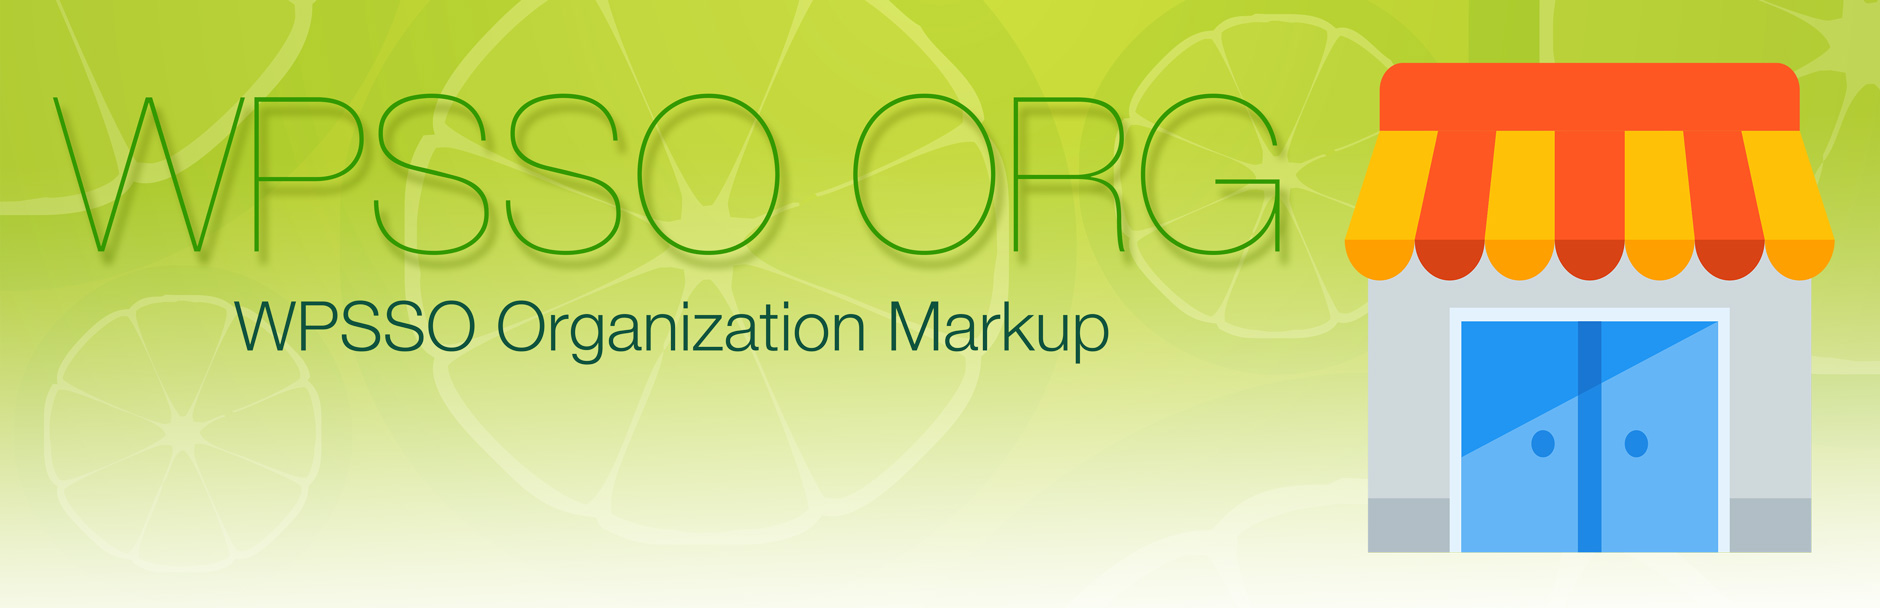
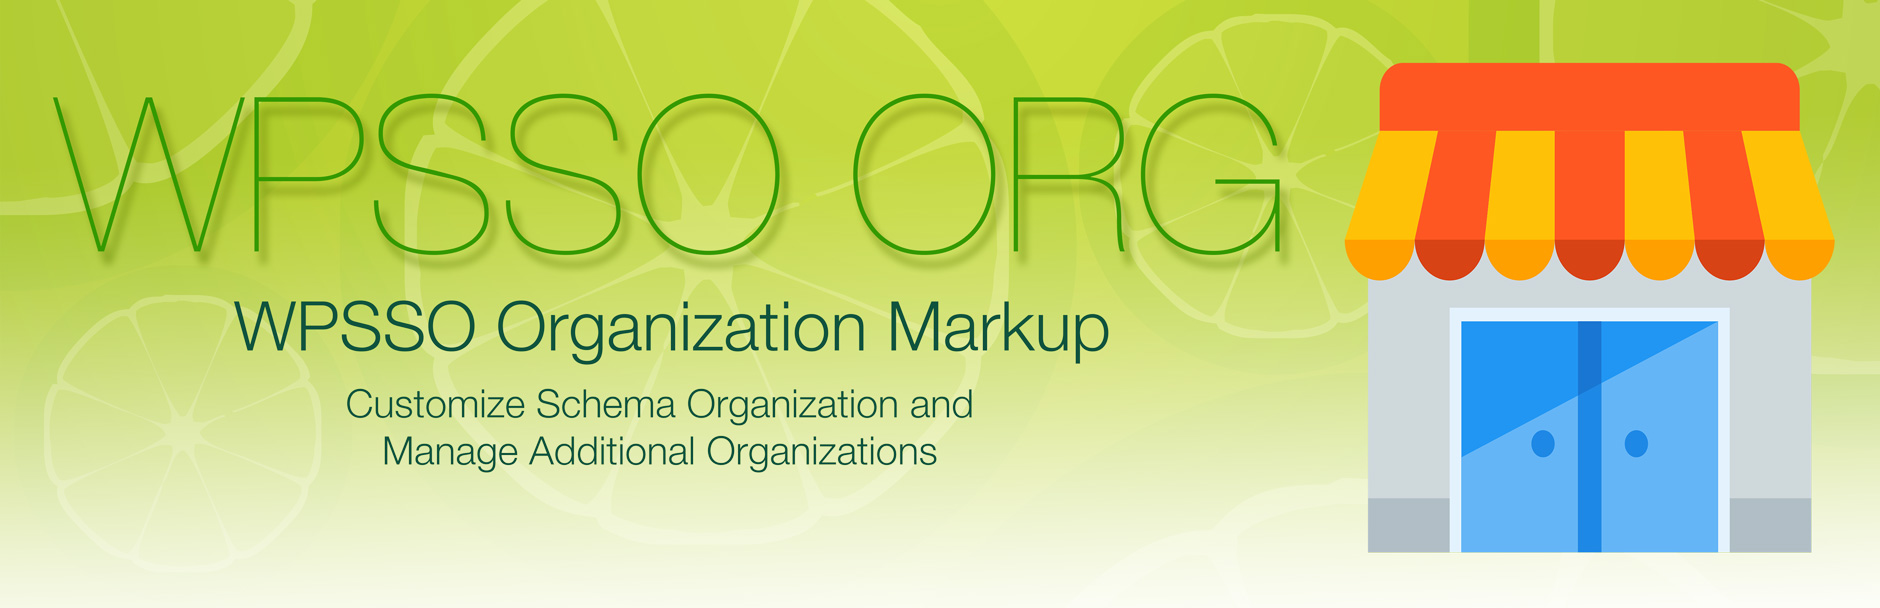
non-essential support files (documentation and assets)

Changed region(s): [[0.1851, 0.7188, 0.4936, 0.7812], [0.1851, 0.625, 0.5245, 0.6875]]

diff --git a/index.html b/index.html
@@ -25,11 +25,11 @@
         </ul>
       </header>
       <section>
-<h1>WPSSO Organization Markup to Customize Schema WebSite and Manage Additional Organizations</h1>
+<h1>WPSSO Organization Markup to Customize Schema Organization and Manage Additional Organizations</h1>
 
 <table>
 <tr><th align="right" valign="top" nowrap>Plugin Name</th><td>WPSSO Organization Markup</td></tr>
-<tr><th align="right" valign="top" nowrap>Summary</th><td>WPSSO Core add-on to customize the home page Schema WebSite markup and manage additional Schema Organizations (publishers, etc.).</td></tr>
+<tr><th align="right" valign="top" nowrap>Summary</th><td>WPSSO Core add-on to customize the home page Schema Organization markup and manage additional Organizations (publishers, etc.).</td></tr>
 <tr><th align="right" valign="top" nowrap>Stable Version</th><td>1.4.5</td></tr>
 <tr><th align="right" valign="top" nowrap>Requires At Least</th><td>WordPress 3.8</td></tr>
 <tr><th align="right" valign="top" nowrap>Tested Up To</th><td>WordPress 5.0</td></tr>
@@ -42,7 +42,7 @@
 
 <p style="margin:0;"><img class="readme-icon" src="https://surniaulula.github.io/wpsso-organization/assets/icon-256x256.png"></p>
 
-<p><strong>Customize the Schema WebSite markup for your home page:</strong></p>
+<p><strong>Customize the Schema Organization markup for your home page:</strong></p>
 
 <p>Edit your Schema Organization name, alternate name, description, and WebSite URL for each WordPress locale / language / region.</p>
 
@@ -50,7 +50,7 @@
 
 <p>Select an Schema Organization sub-type (Corporation, Educational, NGO, Performing Group, etc.) for Google's Knowledge Graph.</p>
 
-<p>Select an optional place / location / address for your home page and/or each additional Organization.</p>
+<p>Select an optional place / location / address for your home page Organization and/or each additional Organization you create.</p>
 
 <p>Provide an Organization selector for the <a href="https://wpsso.com/extend/plugins/wpsso-schema-json-ld/">WPSSO Schema JSON-LD Markup Pro</a> add-on:</p>
 
@@ -65,7 +65,7 @@
 
 <ul>
 <li><p>Extends the features of the WPSSO Core Free or Pro plugin.</p></li>
-<li><p>Manage additional Schema Organization properies for Google's Knowledge Graph, including different values for each WordPress locale / language / region:</p>
+<li><p>Customize Schema Organization properies for Google's Knowledge Graph, including different values for each WordPress locale / language / region:</p>
 
 <ul>
 <li>WebSite Name (localized)</li>
@@ -92,8 +92,7 @@
 </ul></li>
 </ul></li>
 <li><p>Select a more specific Schema Organization sub-type for Google's Knowlege Graph and Organization markup.</p></li>
-<li><p>Include address / place / location information in your Schema Organization markup when used in combination with the <a href="https://wordpress.org/plugins/wpsso-plm/">WPSSO Place / Location and Local Business Meta</a> add-on.</p></li>
-<li><p>Download the Free version from <a href="https://surniaulula.github.io/wpsso-organization/">GitHub</a> or <a href="https://wordpress.org/plugins/wpsso-organization/">WordPress.org</a>.</p></li>
+<li><p>Select an optional place / location / address for your Schema Organization markup when used with the <a href="https://wordpress.org/plugins/wpsso-plm/">WPSSO Place / Location and Local Business Meta</a> add-on.</p></li>
 </ul>
 
 <h3>WPSSO ORG Additional Features (Pro version)</h3>
